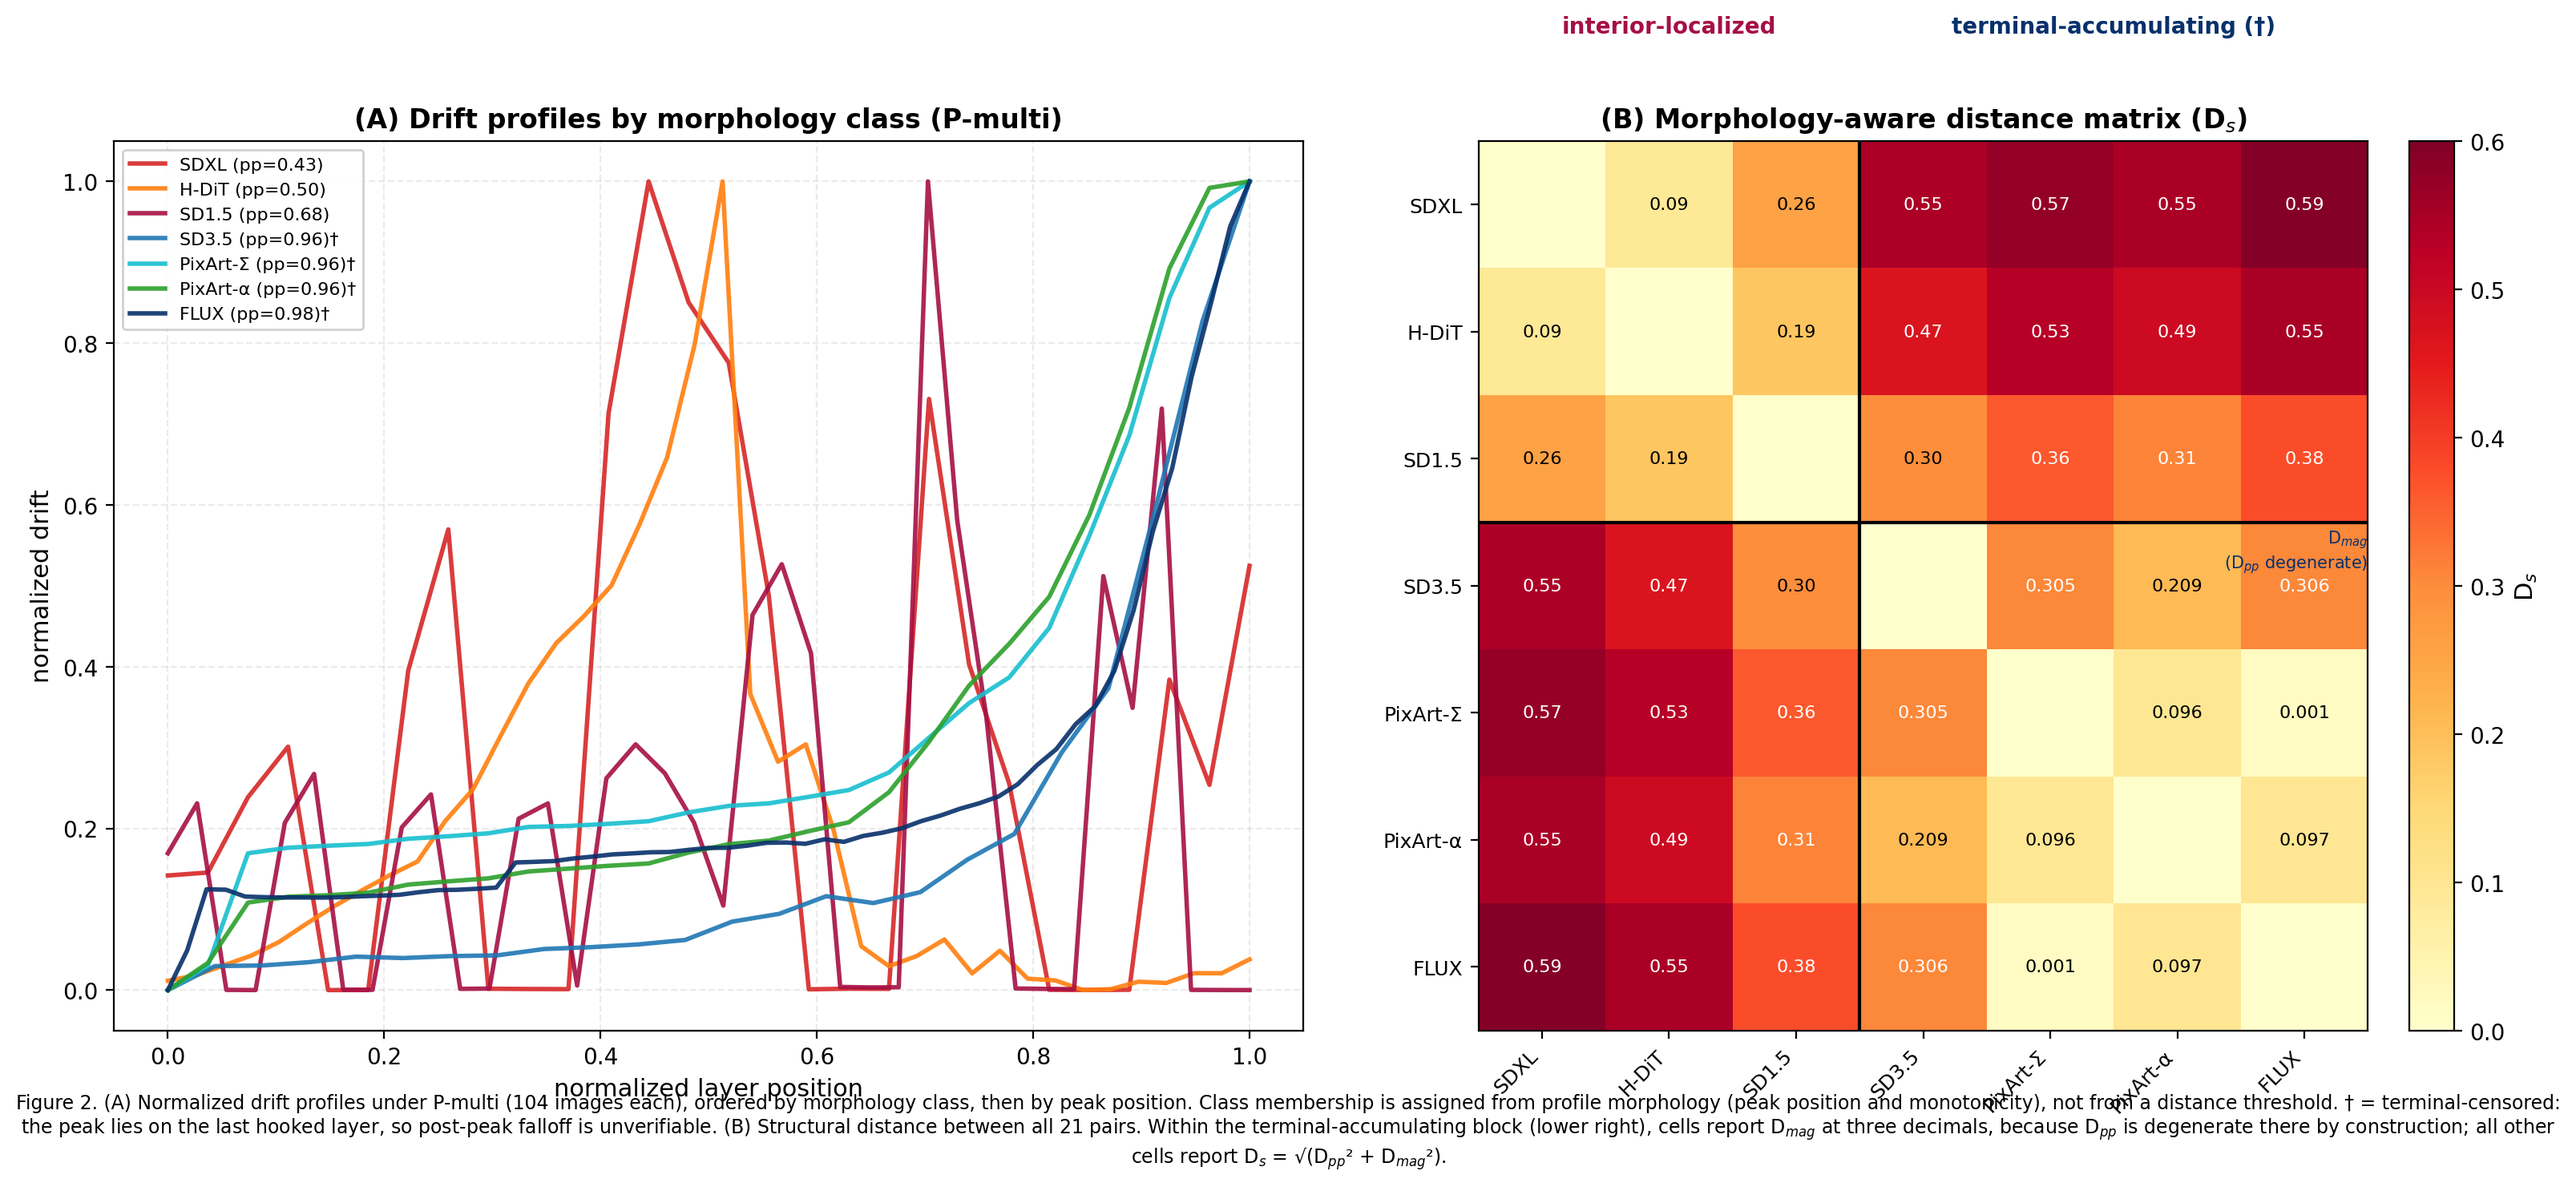
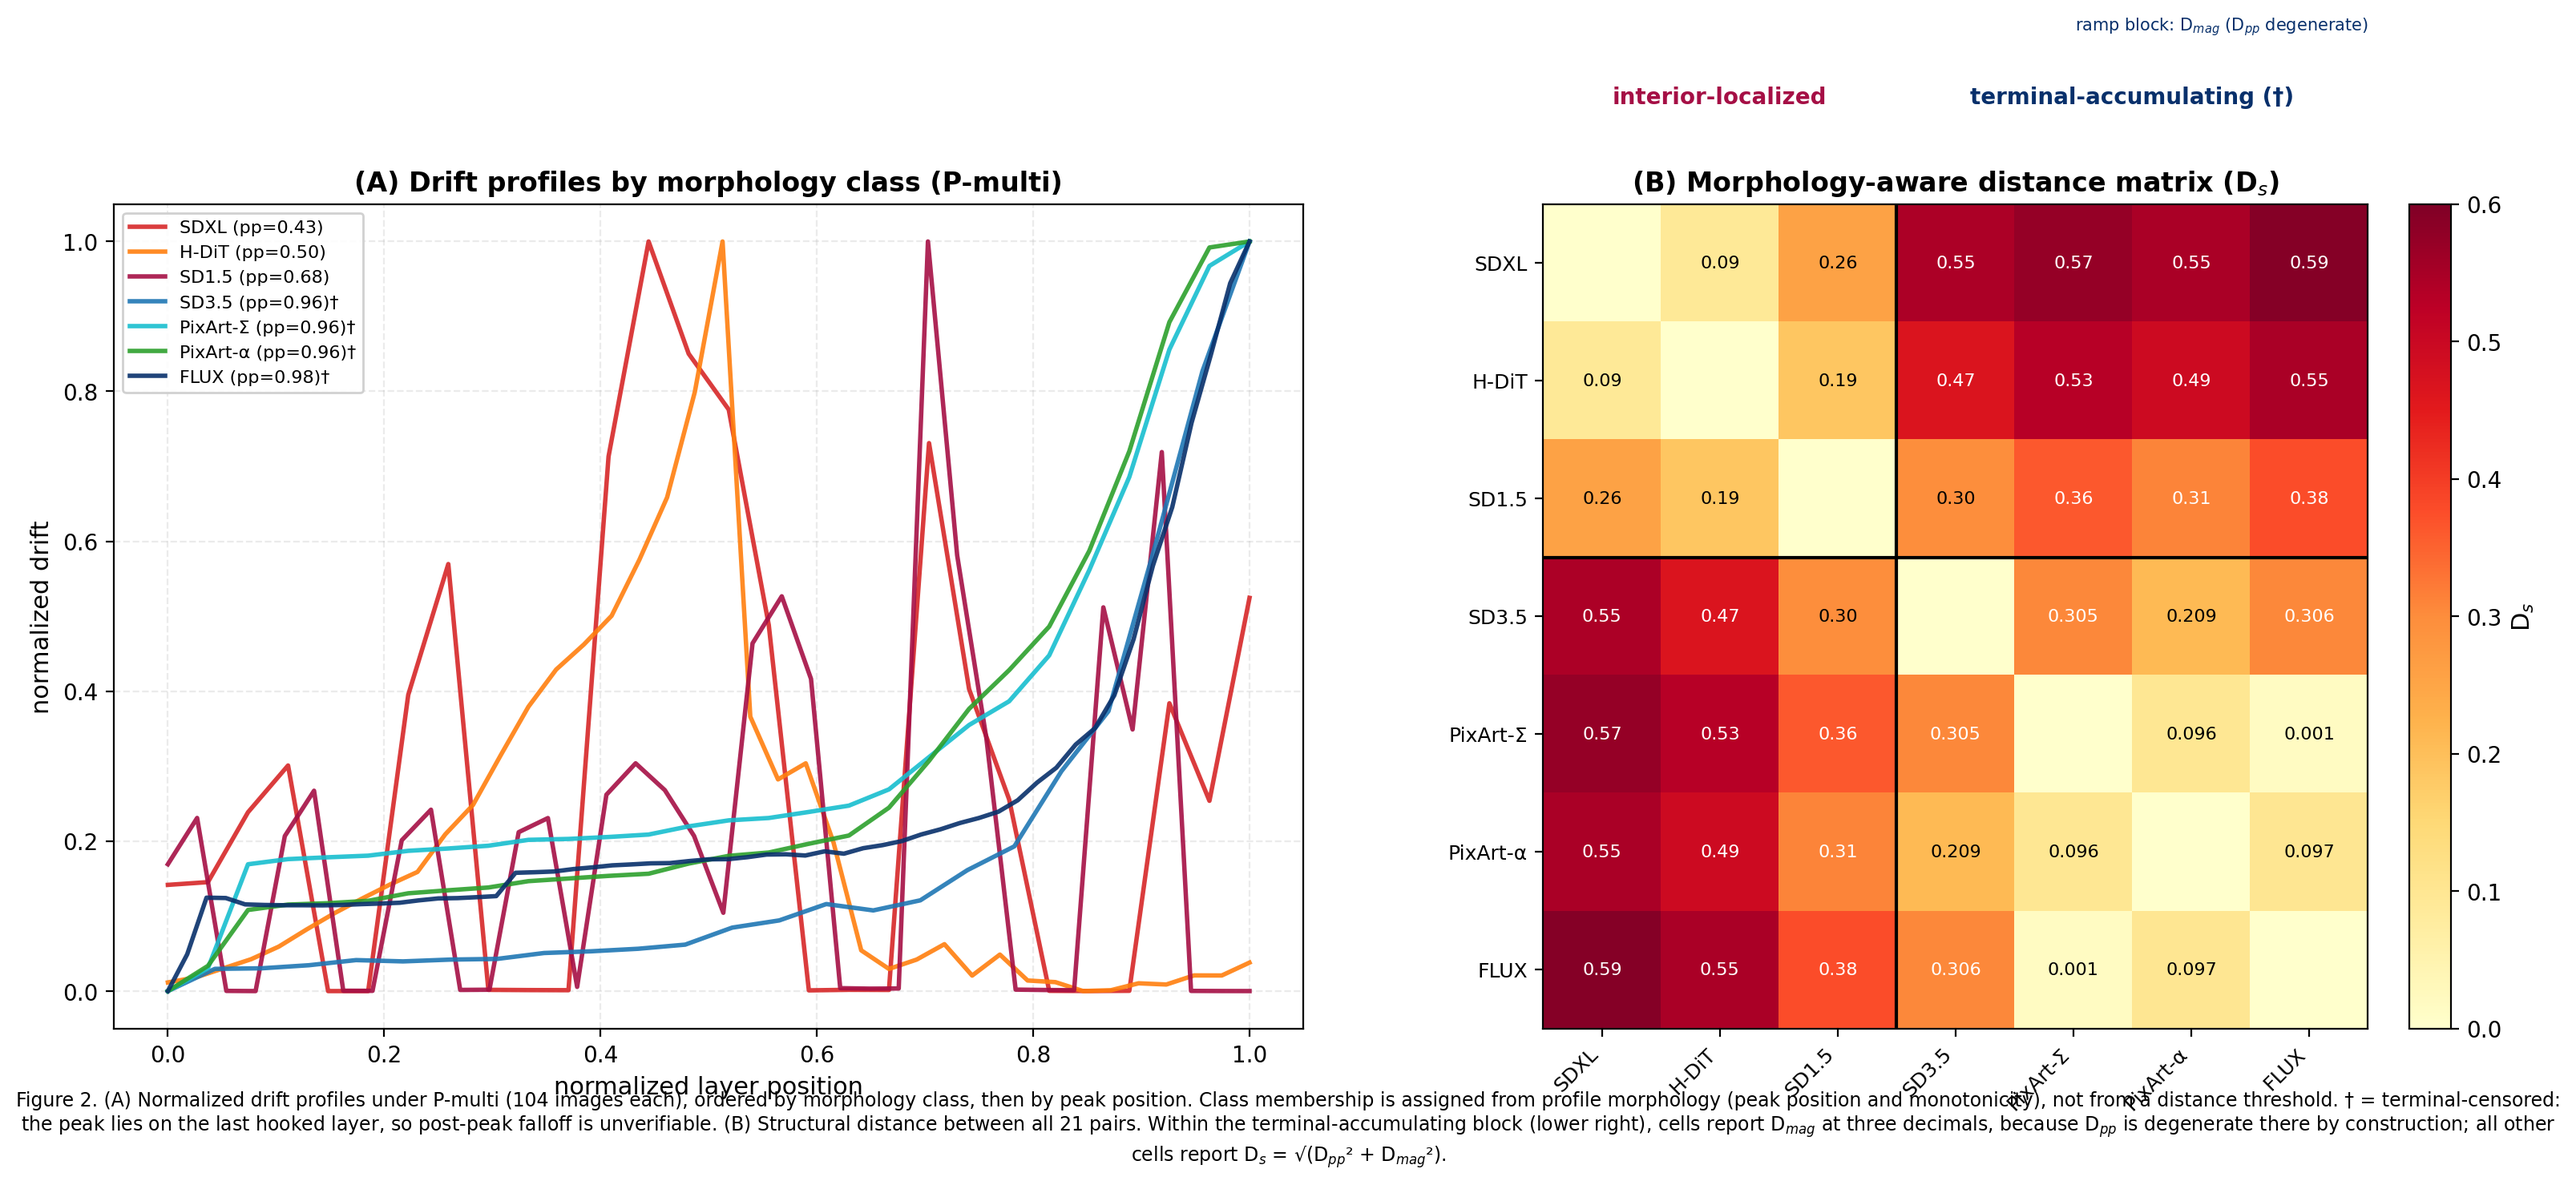
Freeze claim-4 v3 and 4.2 upgrade texts; Fig.2 label nit fix
Noise A deep-dive closure: position+content double dissociation (Cut A/B
location axis, Noise A topology-vs-capacity content axis), drift-conflict
decoupling as post-hoc finding with pre-registered predictions all hit.
Fig.2: move ramp-block D_mag annotation outside the matrix.

diff --git a/scripts/gen_fig2_morphology.py b/scripts/gen_fig2_morphology.py
@@ -104,8 +104,8 @@ for i in range(n):
         axB.text(j, i, txt, ha="center", va="center", fontsize=8,
                  color="white" if val > 0.3 else "black")
 
-# Ramp block label
-axB.text(n-0.5, ni-0.45, "D$_{mag}$\n(D$_{pp}$ degenerate)",
+# Ramp block label (outside the matrix, below the x-axis class label)
+axB.text(n-0.5, -2.1, "ramp block: D$_{mag}$ (D$_{pp}$ degenerate)",
          ha="right", va="top", fontsize=7.5, color="#08306b")
 
 cbar = fig.colorbar(im, ax=axB, fraction=0.046, pad=0.04)

diff --git a/ICLR_PAPER_DEFINITIONS.md b/ICLR_PAPER_DEFINITIONS.md
@@ -744,6 +744,51 @@ no measured phenomenon to explain.
 
 ---
 
+## 2b. 冻结文本：主张 4 v3 与 §4.2 升级（2026-08-16，Noise A 深挖结案后）
+
+### 主张 4 v3（双重分离回填——位置 + 内容两轴）
+
+漂移起源于两条轨迹在跨层级跳跃通路边界的**局部冲突**（§sec:mechanism）。
+**位置分离**：切断峰层跳跃通路（Cut A）改善重建（+2.20 dB），切断对照层
+（Cut B）无此效应。**内容分离**：以保持通道容量与全局统计、仅摧毁空间
+拓扑的高斯替换（Noise A）获得与 Cut A 统计等价的改善（差 0.18 dB；TOST，
+Δ=0.5 dB，p=0.0029）——冲突的因果内容是编码器特征的**空间拓扑**。该诊断
+预测了一个闭式修正项的位置与方向：它将反演保真度提升至与注意力控制编辑
+基线相差 0.2 dB 以内（TOST 等价），且无需逐图优化。
+
+**Noise A 重跑统计**（19 图 × 3 条件 × 50 步，seed 42，与历史值全中复现）：
+- paired t (noise vs orig)：t=4.97, p=0.0001（注意：报告的 Cohen's d=0.66 为
+  合并标准差变体；配对设计建议报 d_z=1.14——方法部分需写明变体）
+- TOST (noise vs cut, Δ=0.5 dB)：p=0.0029 等价
+- 峰层漂移：cut_a −27.7%，noise_a +6.4%（漂移-冲突解耦，事后发现）
+
+### §4.2 升级（两段）
+
+**内容分离：拓扑而非容量。** Cut A/B 定位了冲突的位置，但未回答冲突的内容。
+Noise A 干预为此设计：将峰层跳跃输入替换为逐张量均值-方差匹配的高斯噪声。
+结果：Noise A 显著改善重建（22.46→24.84 dB），且与 Cut A 统计等价——
+保留容量与全局统计不足以维持冲突，摧毁拓扑即足以消除它。冲突的因果内容
+是编码器特征的空间拓扑。（边界声明：数据未检验"单独摧毁容量"的条件，
+"容量毫无作用"不可写。）
+
+**漂移与冲突的解耦（事后发现）。** 两种干预在峰层漂移上走向相反方向：
+Cut A 降 27.7%、Noise A 升 6.4%，重建改善却等价。反向分离表明定义 1 的
+L2 漂移度量的是轨迹间差异而非冲突：无结构替换输入拉大 L2 距离却不携带
+对抗结构。因此漂移剖面的机制性使用限于**定位**：峰位标记冲突进入位置，
+漂移幅度不作为冲突强度度量。该分离为事后发现——预注册预测（方向、显著性、
+等价性）全部命中，峰层漂移方向不在预注册分支内；附录 app:noise-a 给出
+"机械性 L2 膨胀"定量核对。
+
+### Finding 2 补丁
+
+§2.4：D_total=0.018 → D_s=0.018（与定义符号统一）。
+
+### dtype bug 定性（审计附录一行）
+
+NoiseIntervention 潜伏崩溃型：fp32 mean/std 未回 cast 到 fp16（fp16 必崩、
+fp32 语义正确）。修复后三数全中复现历史值，历史结果未污染。
+
+---
 ## 2. Layer 2 — 经验性质 (Properties, 由实验建立)
 
 **格式约定**: 每条 Property 先陈述主张，再单独列出 Evidence 来源。Property
